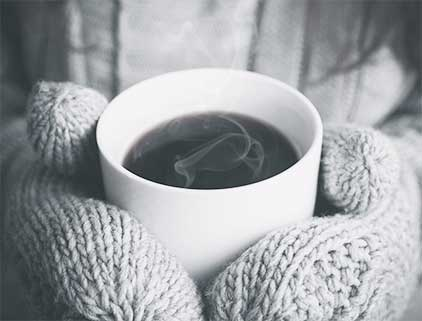
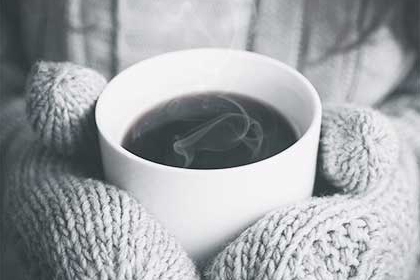
change pic size and fix hw1

diff --git a/html-css/module-01-02/index.html b/html-css/module-01-02/index.html
@@ -11,31 +11,41 @@
     <header>
         <nav>
         <ul class="meny">
-            <li class="menu-item"><a href="#" class="menu-link" >LIFESTYLE</a></li>
-            <li class="menu-item"><a href="#" class="menu-link">PHOTODIARY</a></li>
-            <li class="menu-item"><a href="#" class="menu-link">MUSIC</a></li>
-            <li class="menu-item"><a href="#" class="menu-link">TRAVEL</a></li>
+            <li class="menu-item"><a href="#" class="menu-link">lifestyle</a></li>
+            <li class="menu-item"><a href="#" class="menu-link">photodiary</a></li>
+            <li class="menu-item"><a href="#" class="menu-link">music</a></li>
+            <li class="menu-item"><a href="#" class="menu-link">travel</a></li>
         </ul>
         </nav>
     </header>
-   
-   <img src="./img/img-1.jpg" alt="lifestyle">
-   <h5 id="lifestyle">lifestyle</h5>
-   <h4>More than just a music festival </h4>
-   <p>Lorem ipsum dolor sit amet, consectetur adipisicing elit. Eius harum, consequuntur deserunt dolore mollitia molestiae provident inventore nisi eligendi sit hic, repellendus at, aliquam natus suscipit illum adipisci cum eum non, est atque assumenda ab. Et architecto, nulla eveniet, repellendus ratione repudiandae sequi. Omnis perspiciatis vel quisquam, ea in velit distinctio voluptate, aspernatur aliquam quo magnam, quidem reprehenderit dignissimos consectetur pariatur sint illum corporis nostrum facilis quod voluptates repellat et quia incidunt praesentium! Dolorem, sint aliquid voluptate saepe beatae placeat, eligendi veniam ullam id, tempore repellat, ducimus quod unde quo autem eius repudiandae ut. Quasi rem a debitis, quae quod.</p>
-   <img src="./img/img-2.jpg" alt="lifestyle">
-   <h5 id="lifestyle2">lifestyle</h5>
-   <h4>Life tastes better with coffee</h4>
-   <p>Lorem ipsum dolor sit amet, consectetur adipisicing elit. Eius harum, consequuntur deserunt dolore mollitia molestiae provident inventore nisi eligendi sit hic, repellendus at, aliquam natus suscipit illum adipisci cum eum non, est atque assumenda ab. Et architecto, nulla eveniet, repellendus ratione repudiandae sequi. Omnis perspiciatis vel quisquam, ea in velit distinctio voluptate, aspernatur aliquam quo magnam, quidem reprehenderit dignissimos consectetur pariatur sint illum corporis nostrum facilis quod voluptates repellat et quia incidunt praesentium! Dolorem, sint aliquid voluptate saepe beatae placeat, eligendi veniam ullam id, tempore repellat, ducimus quod unde quo autem eius repudiandae ut. Quasi rem a debitis, quae quod.</p>
-   <img src="./img/img-3.jpg" alt="photodiary">
-   <h5 id="photodiary">photodiary</h5>
-   <h4>American dream</h4>
-   <p>Lorem ipsum dolor sit amet, consectetur adipisicing elit. Eius harum, consequuntur deserunt dolore mollitia molestiae provident inventore nisi eligendi sit hic, repellendus at, aliquam natus suscipit illum adipisci cum eum non, est atque assumenda ab. Et architecto, nulla eveniet, repellendus ratione repudiandae sequi. Omnis perspiciatis vel quisquam, ea in velit distinctio voluptate, aspernatur aliquam quo magnam, quidem reprehenderit dignissimos consectetur pariatur sint illum corporis nostrum facilis quod voluptates repellat et quia incidunt praesentium! Dolorem, sint aliquid voluptate saepe beatae placeat, eligendi veniam ullam id, tempore repellat, ducimus quod unde quo autem eius repudiandae ut. Quasi rem a debitis, quae quod.</p>
-   <img src="./img/img-1.jpg" alt="photodiary">
-   <h5 id="photodiary1">photodiary</h5>
-   <h4>A day exploring the Alps </h4>
-   <p>Lorem ipsum dolor sit amet, consectetur adipisicing elit. Eius harum, consequuntur deserunt dolore mollitia molestiae provident inventore nisi eligendi sit hic, repellendus at, aliquam natus suscipit illum adipisci cum eum non, est atque assumenda ab. Et architecto, nulla eveniet, repellendus ratione repudiandae sequi. Omnis perspiciatis vel quisquam, ea in velit distinctio voluptate, aspernatur aliquam quo magnam, quidem reprehenderit dignissimos consectetur pariatur sint illum corporis nostrum facilis quod voluptates repellat et quia incidunt praesentium! Dolorem, sint aliquid voluptate saepe beatae placeat, eligendi veniam ullam id, tempore repellat, ducimus quod unde quo autem eius repudiandae ut. Quasi rem a debitis, quae quod.</p>
-    <footer> <input type="submit" value="Load More"></footer>
+   <main>
+       <article>
+            <img src="./img/img-1.jpg" width="420" alt="lifestyle">
+            <h5 id="lifestyle">lifestyle</h5>
+            <h4>More than just a music festival </h4>
+            <p>Lorem ipsum dolor sit amet, consectetur adipisicing elit. Eius harum, consequuntur deserunt dolore mollitia molestiae provident inventore nisi eligendi sit hic, repellendus at, aliquam natus suscipit illum adipisci cum eum non, est atque assumenda ab. Et architecto, nulla eveniet, repellendus ratione repudiandae sequi. Omnis perspiciatis vel quisquam, ea in velit distinctio voluptate, aspernatur aliquam quo magnam, quidem reprehenderit dignissimos consectetur pariatur sint illum corporis nostrum facilis quod voluptates repellat et quia incidunt praesentium! Dolorem, sint aliquid voluptate saepe beatae placeat, eligendi veniam ullam id, tempore repellat, ducimus quod unde quo autem eius repudiandae ut. Quasi rem a debitis, quae quod.</p>
+        </article>
+        <article>
+            <img src="./img/img-2.jpg" width="420" alt="lifestyle">
+            <h5 id="lifestyle2">lifestyle</h5>
+            <h4>Life tastes better with coffee</h4>
+            <p>Lorem ipsum dolor sit amet, consectetur adipisicing elit. Eius harum, consequuntur deserunt dolore mollitia molestiae provident inventore nisi eligendi sit hic, repellendus at, aliquam natus suscipit illum adipisci cum eum non, est atque assumenda ab. Et architecto, nulla eveniet, repellendus ratione repudiandae sequi. Omnis perspiciatis vel quisquam, ea in velit distinctio voluptate, aspernatur aliquam quo magnam, quidem reprehenderit dignissimos consectetur pariatur sint illum corporis nostrum facilis quod voluptates repellat et quia incidunt praesentium! Dolorem, sint aliquid voluptate saepe beatae placeat, eligendi veniam ullam id, tempore repellat, ducimus quod unde quo autem eius repudiandae ut. Quasi rem a debitis, quae quod.</p>
+        </article>
+        <article>
+            <img src="./img/img-3.jpg" width="420" alt="photodiary">
+            <h5 id="photodiary">photodiary</h5>
+            <h4>American dream</h4>
+            <p>Lorem ipsum dolor sit amet, consectetur adipisicing elit. Eius harum, consequuntur deserunt dolore mollitia molestiae provident inventore nisi eligendi sit hic, repellendus at, aliquam natus suscipit illum adipisci cum eum non, est atque assumenda ab. Et architecto, nulla eveniet, repellendus ratione repudiandae sequi. Omnis perspiciatis vel quisquam, ea in velit distinctio voluptate, aspernatur aliquam quo magnam, quidem reprehenderit dignissimos consectetur pariatur sint illum corporis nostrum facilis quod voluptates repellat et quia incidunt praesentium! Dolorem, sint aliquid voluptate saepe beatae placeat, eligendi veniam ullam id, tempore repellat, ducimus quod unde quo autem eius repudiandae ut. Quasi rem a debitis, quae quod.</p>
+        </article>
+        <article>
+            <img src="./img/img-4.jpg" width="420" alt="photodiary">
+            <h5 id="photodiary1">photodiary</h5>
+            <h4>A day exploring the Alps </h4>
+            <p>Lorem ipsum dolor sit amet, consectetur adipisicing elit. Eius harum, consequuntur deserunt dolore mollitia molestiae provident inventore nisi eligendi sit hic, repellendus at, aliquam natus suscipit illum adipisci cum eum non, est atque assumenda ab. Et architecto, nulla eveniet, repellendus ratione repudiandae sequi. Omnis perspiciatis vel quisquam, ea in velit distinctio voluptate, aspernatur aliquam quo magnam, quidem reprehenderit dignissimos consectetur pariatur sint illum corporis nostrum facilis quod voluptates repellat et quia incidunt praesentium! Dolorem, sint aliquid voluptate saepe beatae placeat, eligendi veniam ullam id, tempore repellat, ducimus quod unde quo autem eius repudiandae ut. Quasi rem a debitis, quae quod.</p>
+        </article>
+
+<input type="submit" value="Load More">
+</main>
 </div>
 </body>
 </html>
